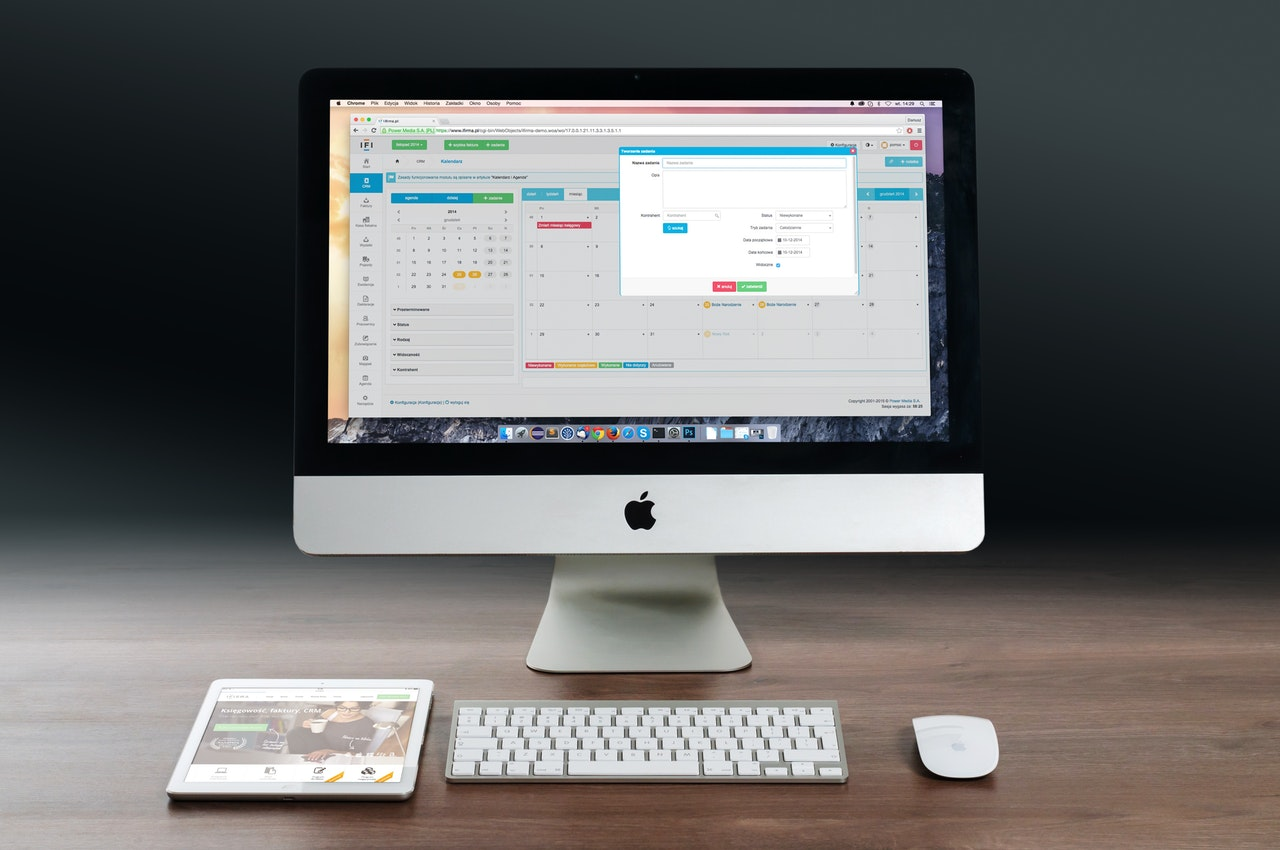
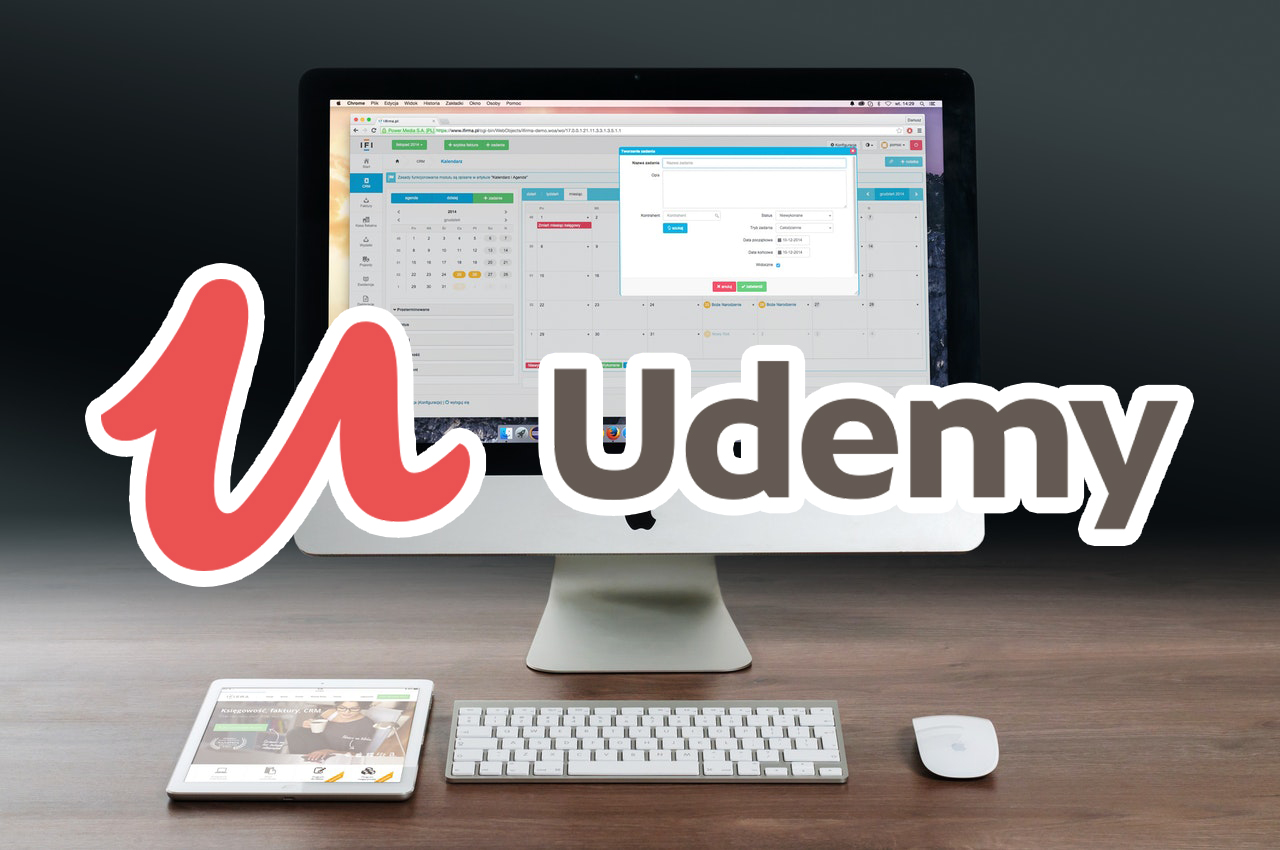
Updates

Changed region(s): [[0.0625, 0.3059, 0.9375, 0.7035]]

diff --git a/work.html b/work.html
@@ -60,16 +60,17 @@
     <div class="projects">
       <div class="item">
         <a href="#!">
-          <img src="img/projects/project1.jpg" alt="Project">
+          <img src="img/projects/project4.jpg" alt="Project">
         </a>
-        <a href="#" class="btn-light">
-          <i class="fas fa-eye"></i> Project
+        <a href="https://www.udemy.com/certificate/UC-ZGS0QTBM/?utm_campaign=email&utm_source=sendgrid.com&utm_medium=email"
+          target="_blank " class="btn-light">
+          <i class="fas fa-eye"></i> Sertification
         </a>
         <a href="#" class="btn-dark">
           <i class="fab fa-github"></i> Github
         </a>
       </div>
-      <div class="item">
+      <!-- <div class="item">
         <a href="#!">
           <img src="img/projects/project2.jpg" alt="Project">
         </a>
@@ -112,7 +113,7 @@
         <a href="#" class="btn-dark">
           <i class="fab fa-github"></i> Github
         </a>
-      </div>
+      </div> -->
     </div>
   </main>
 
